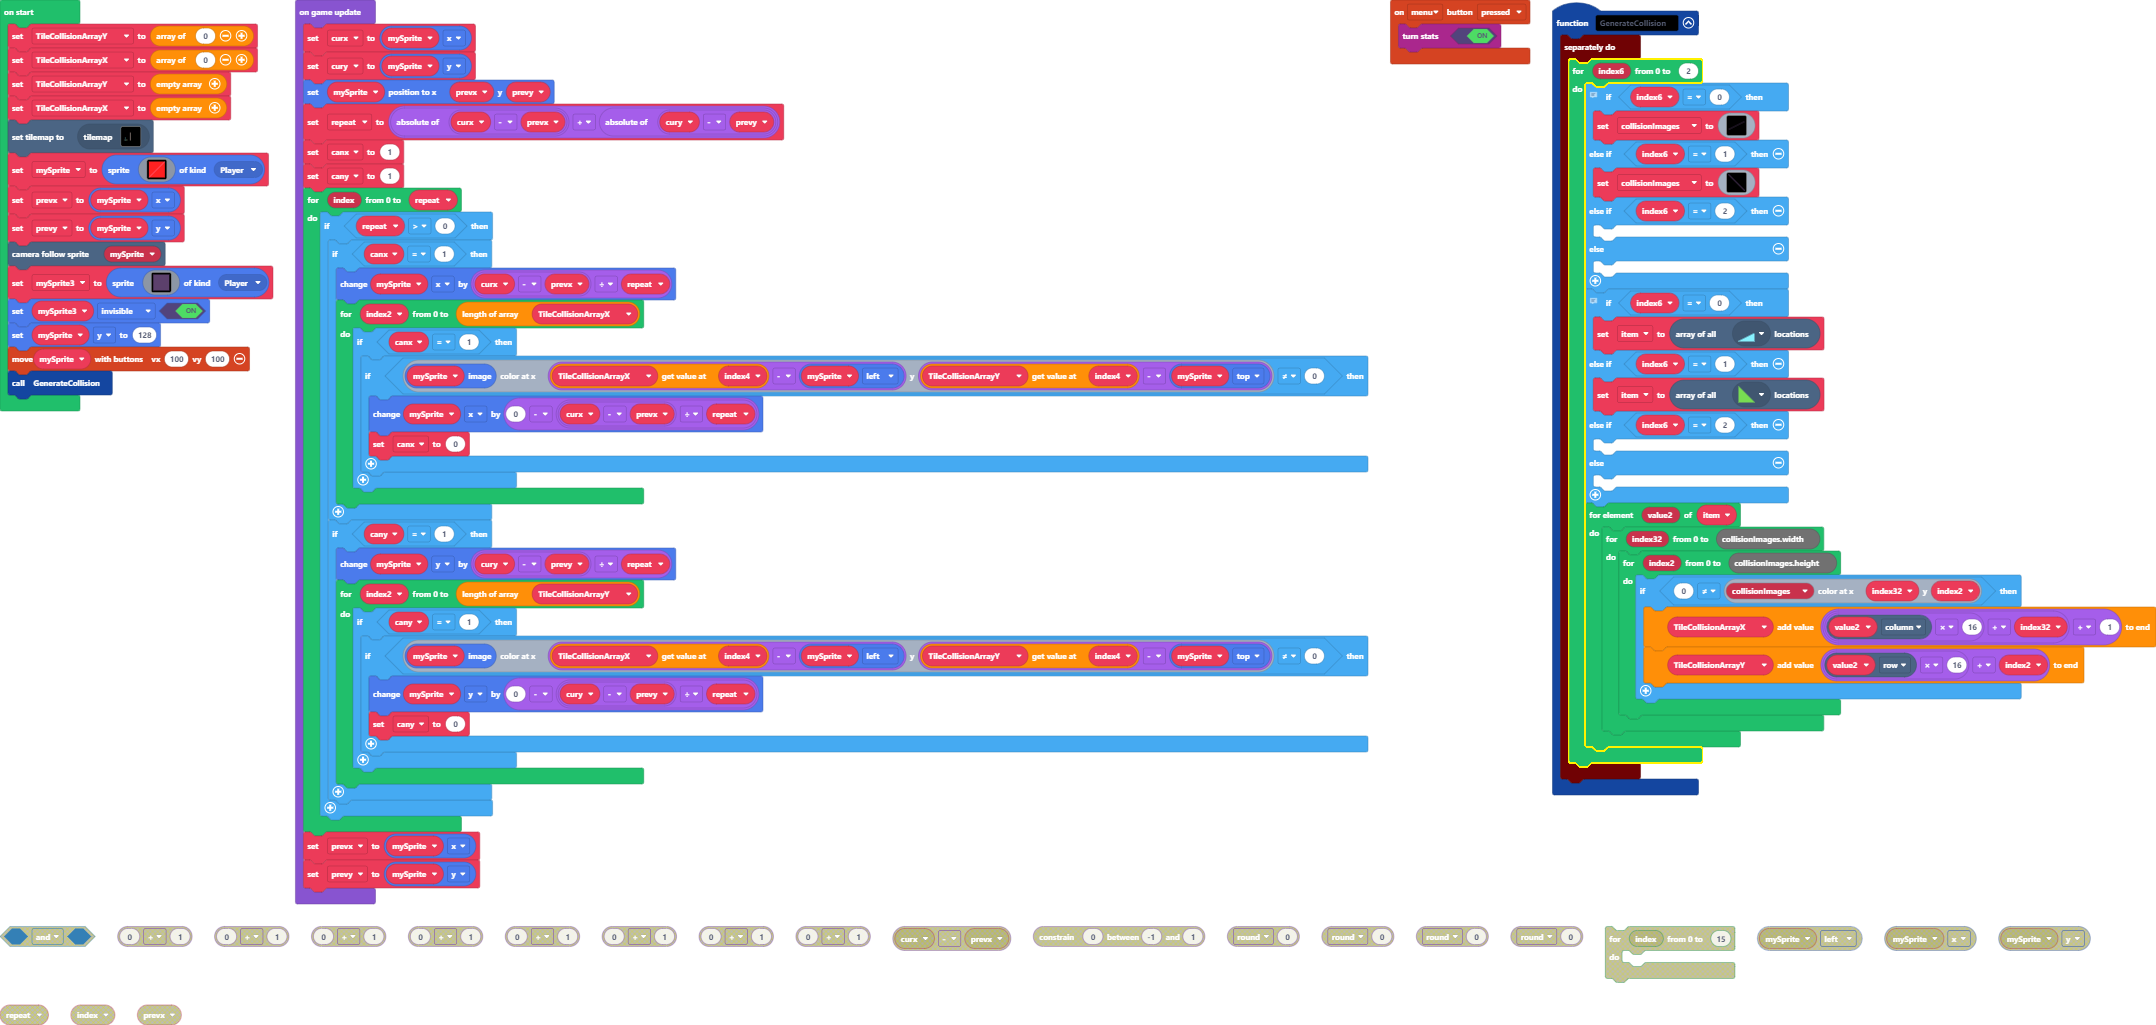
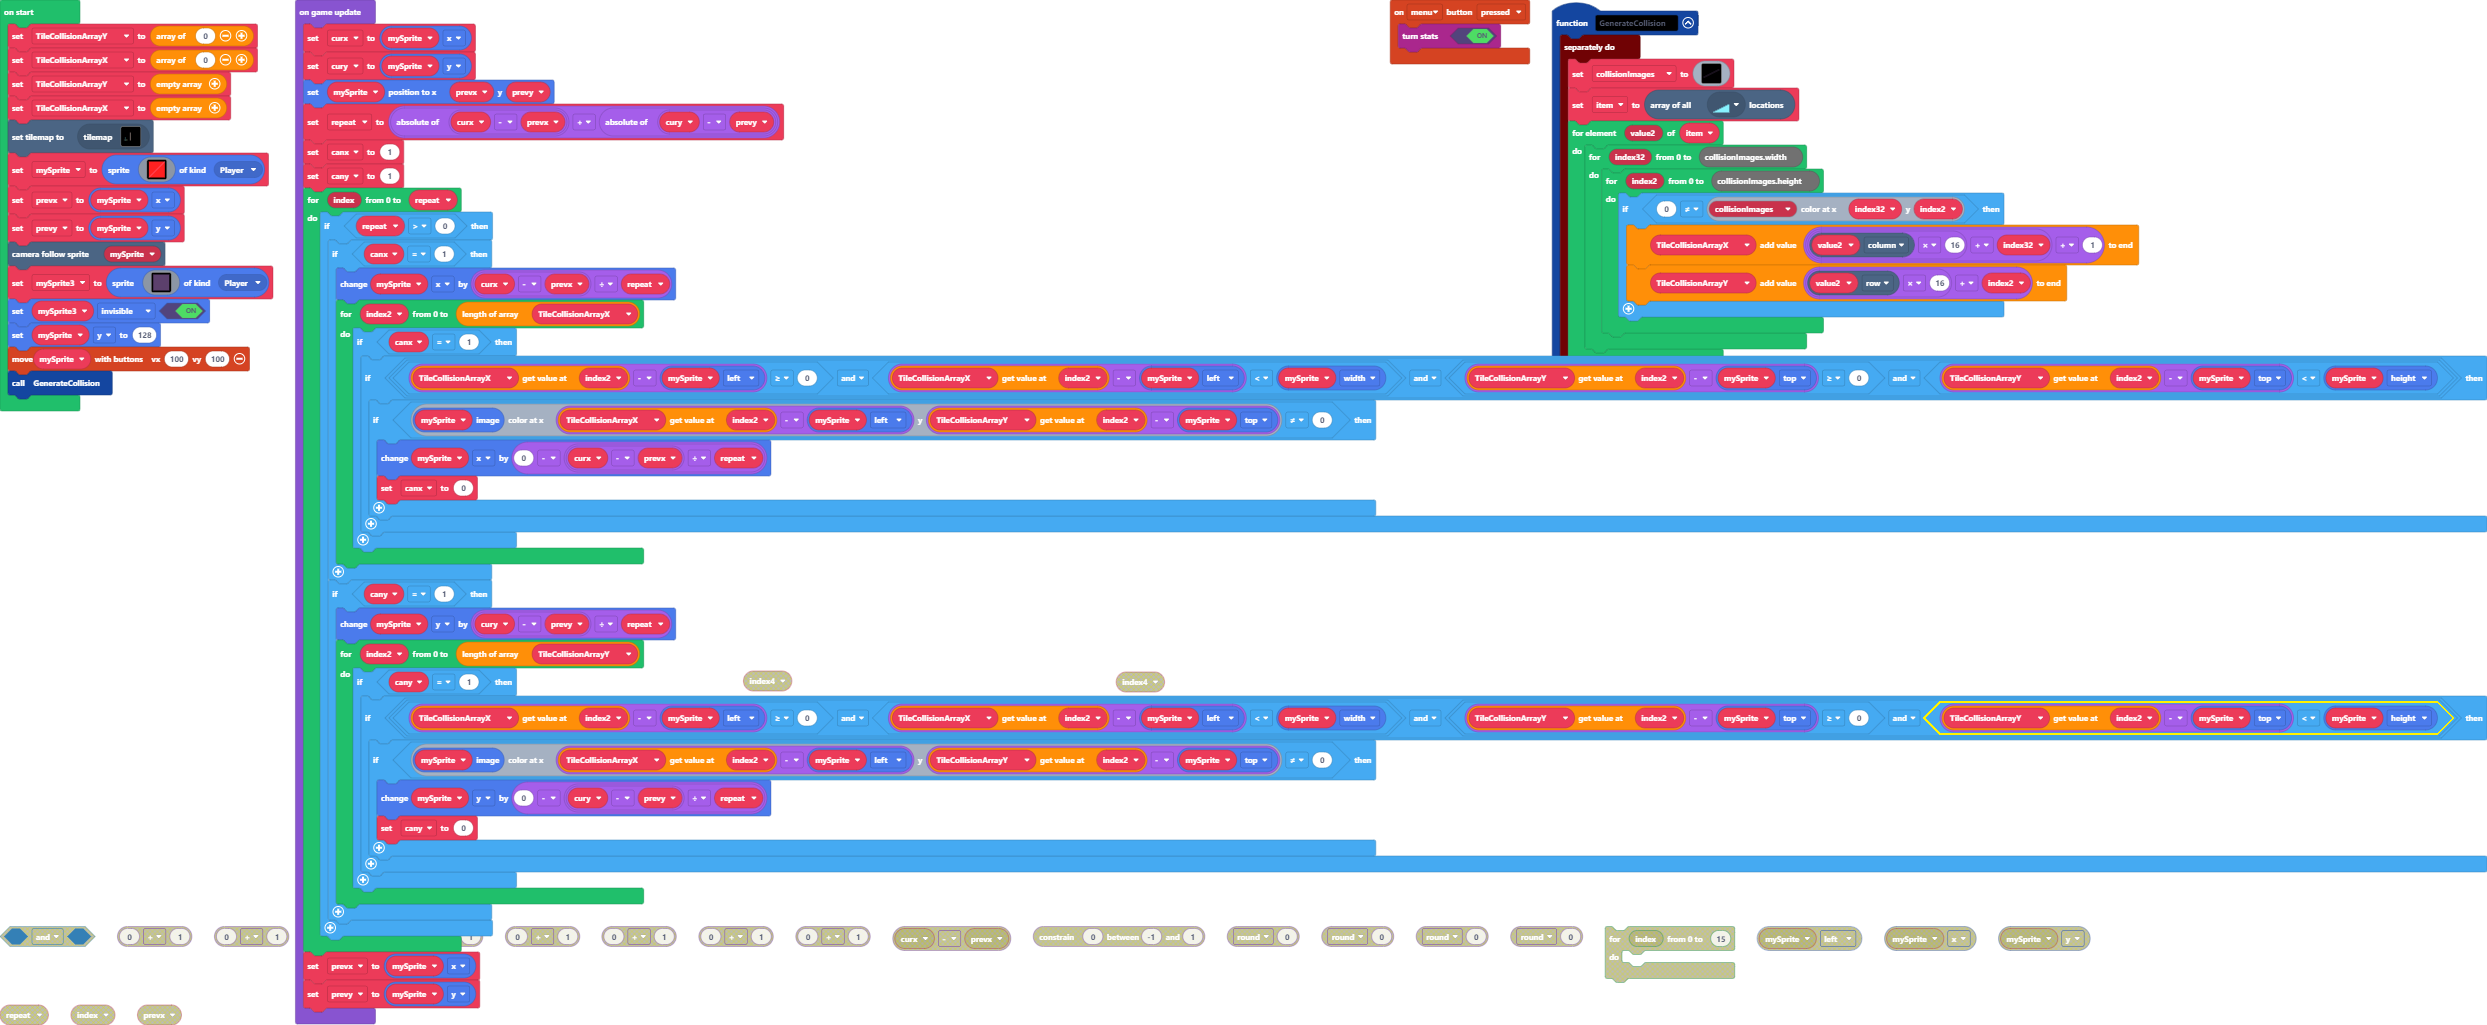
Update main.blocks, main.ts, tilemap.g.jres, tilemap.g.ts

diff --git a/main.ts b/main.ts
@@ -3,68 +3,31 @@ namespace SpriteKind {
 }
 function GenerateCollision () {
     timer.background(function () {
-        for (let index6 = 0; index6 <= 2; index6++) {
-            // put the tilemap locations that correspond to the order of your index of regular platform images and collisions
-            if (index6 == 0) {
-                collisionImages = img`
-                    ..............................cc
-                    ............................cc..
-                    ..........................cc....
-                    ........................cc......
-                    ......................cc........
-                    ....................cc..........
-                    ..................cc............
-                    ................cc..............
-                    ..............cc................
-                    ............cc..................
-                    ..........cc....................
-                    ........cc......................
-                    ......cc........................
-                    ....cc..........................
-                    ..cc............................
-                    cc..............................
-                    `
-            } else if (index6 == 1) {
-                collisionImages = img`
-                    c . . . . . . . . . . . . . . . 
-                    . c . . . . . . . . . . . . . . 
-                    . . c . . . . . . . . . . . . . 
-                    . . . c . . . . . . . . . . . . 
-                    . . . . c . . . . . . . . . . . 
-                    . . . . . c . . . . . . . . . . 
-                    . . . . . . c . . . . . . . . . 
-                    . . . . . . . c . . . . . . . . 
-                    . . . . . . . . c . . . . . . . 
-                    . . . . . . . . . c . . . . . . 
-                    . . . . . . . . . . c . . . . . 
-                    . . . . . . . . . . . c . . . . 
-                    . . . . . . . . . . . . c . . . 
-                    . . . . . . . . . . . . . c . . 
-                    . . . . . . . . . . . . . . c . 
-                    . . . . . . . . . . . . . . . c 
-                    `
-            } else if (index6 == 2) {
-            	
-            } else {
-            	
-            }
-            // put the tilemap locations that correspond to the order of your index of regular platform images and collisions
-            if (index6 == 0) {
-                item = tiles.getTilesByType(assets.tile`myTile13`)
-            } else if (index6 == 1) {
-                item = tiles.getTilesByType(assets.tile`myTile`)
-            } else if (index6 == 2) {
-            	
-            } else {
-            	
-            }
-            for (let value2 of item) {
-                for (let index32 = 0; index32 <= collisionImages.width; index32++) {
-                    for (let index2 = 0; index2 <= collisionImages.height; index2++) {
-                        if (0 != collisionImages.getPixel(index32, index2)) {
-                            TileCollisionArrayX.push(value2.column * 16 + index32 + 1)
-                            TileCollisionArrayY.push(value2.row * 16 + index2)
-                        }
+        collisionImages = img`
+            ..............................cc
+            ............................cc..
+            ..........................cc....
+            ........................cc......
+            ......................cc........
+            ....................cc..........
+            ..................cc............
+            ................cc..............
+            ..............cc................
+            ............cc..................
+            ..........cc....................
+            ........cc......................
+            ......cc........................
+            ....cc..........................
+            ..cc............................
+            cc..............................
+            `
+        item = tiles.getTilesByType(assets.tile`myTile13`)
+        for (let value2 of item) {
+            for (let index32 = 0; index32 <= collisionImages.width; index32++) {
+                for (let index2 = 0; index2 <= collisionImages.height; index2++) {
+                    if (0 != collisionImages.getPixel(index32, index2)) {
+                        TileCollisionArrayX.push(value2.column * 16 + index32 + 1)
+                        TileCollisionArrayY.push(value2.row * 16 + index2)
                     }
                 }
             }
@@ -141,14 +104,15 @@ game.onUpdate(function () {
     cany = 1
     for (let index = 0; index <= repeat; index++) {
         if (repeat > 0) {
-            let index4 = 0
             if (canx == 1) {
                 mySprite.x += (curx - prevx) / repeat
                 for (let index2 = 0; index2 <= TileCollisionArrayX.length; index2++) {
                     if (canx == 1) {
-                        if (mySprite.image.getPixel(TileCollisionArrayX[index4] - mySprite.left, TileCollisionArrayY[index4] - mySprite.top) != 0) {
-                            mySprite.x += 0 - (curx - prevx) / repeat
-                            canx = 0
+                        if (TileCollisionArrayX[index2] - mySprite.left >= 0 && TileCollisionArrayX[index2] - mySprite.left < mySprite.width && (TileCollisionArrayY[index2] - mySprite.top >= 0 && TileCollisionArrayY[index2] - mySprite.top < mySprite.height)) {
+                            if (mySprite.image.getPixel(TileCollisionArrayX[index2] - mySprite.left, TileCollisionArrayY[index2] - mySprite.top) != 0) {
+                                mySprite.x += 0 - (curx - prevx) / repeat
+                                canx = 0
+                            }
                         }
                     }
                 }
@@ -157,9 +121,11 @@ game.onUpdate(function () {
                 mySprite.y += (cury - prevy) / repeat
                 for (let index2 = 0; index2 <= TileCollisionArrayY.length; index2++) {
                     if (cany == 1) {
-                        if (mySprite.image.getPixel(TileCollisionArrayX[index4] - mySprite.left, TileCollisionArrayY[index4] - mySprite.top) != 0) {
-                            mySprite.y += 0 - (cury - prevy) / repeat
-                            cany = 0
+                        if (TileCollisionArrayX[index2] - mySprite.left >= 0 && TileCollisionArrayX[index2] - mySprite.left < mySprite.width && (TileCollisionArrayY[index2] - mySprite.top >= 0 && TileCollisionArrayY[index2] - mySprite.top < mySprite.height)) {
+                            if (mySprite.image.getPixel(TileCollisionArrayX[index2] - mySprite.left, TileCollisionArrayY[index2] - mySprite.top) != 0) {
+                                mySprite.y += 0 - (cury - prevy) / repeat
+                                cany = 0
+                            }
                         }
                     }
                 }

diff --git a/tilemap.g.ts b/tilemap.g.ts
@@ -226,6 +226,25 @@ namespace myTiles {
 . . . . . . . . . . . . . . . . 
 . . . . . . . . . . . . . . . . 
 `, [myTiles.transparency16], TileScale.Sixteen);
+            case "level11":
+            case "level11":return tiles.createTilemap(hex`1000100000000000000000000000000000000000000000000000000000000000000000000000000000000000000000000000000000000000000000000000000000000000000000000000000000000000000000000000000000000000000000000000000000000000000000000000000000000000000000000000000000000000000000000000000000000000000000000000000000000000000000000000000000000000000000000000000000000000000000000000000000000000000000000000000000000000000000000000000000000000000000000000000000000000000000000000000000000000000000000000000000000000000000000000000000000000`, img`
+. . . . . . . . . . . . . . . . 
+. . . . . . . . . . . . . . . . 
+. . . . . . . . . . . . . . . . 
+. . . . . . . . . . . . . . . . 
+. . . . . . . . . . . . . . . . 
+. . . . . . . . . . . . . . . . 
+. . . . . . . . . . . . . . . . 
+. . . . . . . . . . . . . . . . 
+. . . . . . . . . . . . . . . . 
+. . . . . . . . . . . . . . . . 
+. . . . . . . . . . . . . . . . 
+. . . . . . . . . . . . . . . . 
+. . . . . . . . . . . . . . . . 
+. . . . . . . . . . . . . . . . 
+. . . . . . . . . . . . . . . . 
+. . . . . . . . . . . . . . . . 
+`, [myTiles.transparency16], TileScale.Sixteen);
         }
         return null;
     })
